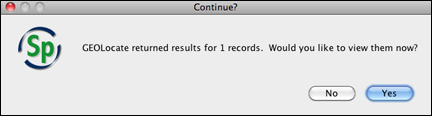
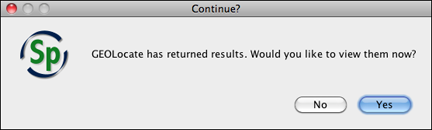
Help update for GEOLocate

Changed region(s): [[0.0, 0.0, 1.0, 1.0], [0.662, 0.7241, 0.963, 0.9052]]

diff --git a/Specify/help/SpecifyHelp/Workbench/BioGiomancer.html b/Specify/help/SpecifyHelp/Workbench/BioGiomancer.html
@@ -16,23 +16,23 @@ table.box td { border-bottom: 1px solid gray; border-right: 1px solid gray }
   </tr>
 </table>
 <h2><img src="../../images/geolocate_32.png" alt="geolocate" width="32" height="32" /> GEOLocate</h2>
-    <p>The GEOLocate project has created software and services for translating textual locality descriptions associated with biodiversity collections data into geographic coordinates. It uses a description of a Locality, and three geography fields, such as County, State and Country, to find Latitude and Longitude coordinate values. This is referred to
+    <p>The GEOLocate project has created software and services for translating textual locality descriptions associated with biodiversity collections data into geographic coordinates. It uses a description of a Locality and values in geography fields, such as County, State and Country, to find Latitude and Longitude coordinate values. This is referred to
       as georeferencing. </p>
-    <p>The Specify and GEOLocate teams have collaborated to create a GEOLocate module inside Specify. In Specify 6.4 and newer GEOLocate has been upgraded to plugin version 2.0.</p>
+<p>The Specify and GEOLocate teams have collaborated to create a GEOLocate module inside Specify. In Specify 6.4 and newer GEOLocate has been upgraded to plugin version 2.0.</p>
 <p><em><strong>Notes: </strong></em></p>
 <ul>
   <li>If GEOLocate results are accepted, they will overwrite any existing  data in the corresponding Data Set columns.</li>
   <li>The WorkBench is not responsible for any of the results returned by GEOLocate, the WorkBench is integrated with the GEOLocate web service. </li>
 </ul>
-<h4>Requirements:</h4>
+<h4>Requirements for Georeferencing US localities:</h4>
 <table class="box" border="1" cellspacing="0" cellpadding="4">
 
 <tr>
   <td align="left" valign="top"><div align="left"><u><strong>Column Heading</strong> </u></div></td>
   <td align="left" valign="top"><div align="left"><u><strong>Data Needed </strong></u></div></td>
 </tr>
-<tr><td width="124" align="left" valign="top"><strong>Locality Name</strong></td>
-<td width="197" align="left" valign="top"><div align="left">Yes</div></td>
+<tr><td width="137" align="left" valign="top"><strong>Locality Name</strong></td>
+<td width="241" align="left" valign="top"><div align="left">Yes</div></td>
 </tr>
 <tr><td align="left" valign="top"><strong>Country</strong></td>
   <td align="left" valign="top"><div align="left">Yes</div></td>
@@ -41,7 +41,10 @@ table.box td { border-bottom: 1px solid gray; border-right: 1px solid gray }
   <td align="left" valign="top"><div align="left">Yes</div></td>
 </tr>
 <tr><td align="left" valign="top"><strong>County</strong></td>
-  <td align="left" valign="top"><div align="left">Yes, for US data</div></td>
+  <td align="left" valign="top"><div align="left">
+    <p>No, but will improve results. </p>
+    <p><strong><em>Note:</em></strong> County is required when including waterbody and highway crossing in the GEOLocate search.</p>
+  </div></td>
 </tr>
 <tr><td align="left" valign="top"><strong>Latitude1</strong></td>
   <td align="left" valign="top">    <p align="left">No<br />(this is a results column) </p></td>
@@ -51,20 +54,61 @@ table.box td { border-bottom: 1px solid gray; border-right: 1px solid gray }
     (this is a results column)</div></td>
 </tr>
 </table>
-<p>The GEOLocate tool uses the data present in the Locality Name, Country, State and County colunns to query the GEOLocate service.&nbsp;The service will not work without data in the Locality Name and at least two other columns.&nbsp; The Latitude 1 and Longitude 1 columns are needed to accept the data returned by the GEOLocate service.&nbsp; If GEOLocate is able to obtain results for any of the records, the GEOLocate Results Chooser dialog will display results for each Data Set record.&nbsp;</p>
-<p>To use GEOLocate select one or more records in your Data Set and click the <img src="../../images/geolocate_20.png" alt="geolocate" width="20" height="20" /> button on the Work Space Item Bar.</p>
-<p align="center">&nbsp;</p>
-<p>A message will either display the number of records GEOLocate found results for, or state that no results were found. </p>
-<p align="center"><img src="../../images/geolocate_view.png" alt="View GEOLocate" width="432" height="116" /></p>
-<p align="center" class="imgcaption">View GEOLocate Results</p>
 <p>&nbsp;</p>
+<h4>Requirements for Georeferencing localities outside of the US:</h4>
+<table class="box" border="1" cellspacing="0" cellpadding="4">
+  <tr>
+    <td align="left" valign="top"><div align="left"><u><strong>Column Heading</strong> </u></div></td>
+    <td align="left" valign="top"><div align="left"><u><strong>Data Needed </strong></u></div></td>
+  </tr>
+  <tr>
+    <td width="137" align="left" valign="top"><strong>Locality Name</strong></td>
+    <td width="241" align="left" valign="top"><div align="left">Yes</div></td>
+  </tr>
+  <tr>
+    <td align="left" valign="top"><strong>Country</strong></td>
+    <td align="left" valign="top"><div align="left">Yes</div></td>
+  </tr>
+  <tr>
+    <td align="left" valign="top"><strong>Child Node of Country</strong></td>
+    <td align="left" valign="top">No, but will improve results.</td>
+  </tr>
+ 
+  <tr>
+    <td align="left" valign="top"><strong>Latitude1</strong></td>
+    <td align="left" valign="top"><p align="left">No<br />
+    (this is a results column) </p></td>
+  </tr>
+  <tr>
+    <td align="left" valign="top"><strong>Longitude1</strong></td>
+    <td align="left" valign="top"><div align="left">No<br />
+    (this is a results column)</div></td>
+  </tr>
+</table>
+<blockquote>
+  <p><em><strong>Note:</strong></em> A complete list of acceptable countries is available on the 
+    <a href="http://www.museum.tulane.edu/geolocate/standalone/globalExp.html">GEOLocate website</a>.</p>
+</blockquote>
+<p>&nbsp;</p>
+<p>The GEOLocate tool uses the data present in the Locality Name, Country, State and County colunns to query the GEOLocate service.&nbsp;The service will not work without data in the Locality Name and at least two other columns.&nbsp; The Latitude 1 and Longitude 1 columns are needed to accept the data returned by the GEOLocate service.&nbsp; If GEOLocate is able to obtain results for any of the records, the GEOLocate Results Chooser dialog will display results for each Data Set record.&nbsp;</p>
+<p>To use GEOLocate select one or more records in your Data Set and click the <img src="../../images/geolocate_20.png" alt="geolocate" width="20" height="20" /> button on the Work Space Item Bar. A message will alert you to the status of the GEOLocate search requirements in regard to your records. </p>
+<p align="center">&nbsp;</p>
+<p align="center"><img src="../../images/geolocate_view_warning.png" alt="view Geolocate results screen" width="360" height="387" /></p>
+<p align="center" class="imgcaption">GEOLocate Requirement Status</p>
+<blockquote>
+  <p><em><strong>Note:</strong></em> Latitude and Longitude values present in WorkBench data sets will be replaced by those found in GEOLocate if GEOLocate results are accepted.</p>
+  <p>&nbsp;</p>
+  <p>Once GEOLocate has finished processing another message will either display the number of records for which GEOLocate returned results, or state that no results were found. </p>
+  <p align="center"><img src="../../images/geolocate_view.png" alt="View GEOLocate" /></p>
+  <p align="center" class="imgcaption">View GEOLocate Results</p>
+</blockquote>
 <p>&nbsp;</p>
 <p>Results will display in the GEOLocate Results Chooser tool. </p>
 <p>&nbsp;</p>
 <p align="center"><img src="../../images/geolocate_screen.png" alt="geolocate" /></p>
 <p align="center" class="imgcaption">GEOLocate</p>
 <p><strong>Locality Information </strong>displays the  Locality Description, County, State and Country values in your current record. </p>
-<p><strong>Correction (Green) Marker Properties</strong> includes the values for the most accurate result among the GEOLocate results returned. These values are also displayed visually on a map.</p>
+<p><strong>Correction (Green) Marker Properties</strong> include the values for the most accurate result among the GEOLocate results returned. These values are also displayed visually on a map.</p>
 <p>GEOLocate results can be edited using either the Correction Marker Properties form or the map elements. Changes made on the map are automatically recalculated and updated in the corresponding fields on the form. Updated values in the Correction Marker Properties form are automatically represented in the corresponding map element.</p>
 <blockquote>
   <p><em><strong>Note:</strong></em> As you move your mouse within the map the corresponding latituted and longitude values display in the lower right corner under the map.</p>

diff --git a/Specify/help/SpecifyHelp/Plugins/Plugins.html b/Specify/help/SpecifyHelp/Plugins/Plugins.html
@@ -40,17 +40,104 @@
     <p>The GEOLocate project has created software and services for translating textual locality descriptions associated with biodiversity collections data into geographic coordinates. It uses a description of a Locality, and three geography fields, such as County, State and Country, to find Latitude and Longitude coordinate values. This is referred to
       as georeferencing. </p>
     <p>The Specify and GEOLocate teams have collaborated to create a GEOLocate module inside Specify. In Specify 6.4 and newer GEOLocate has been upgraded to plugin version 2.0.</p>
-    <p>Click  <img src="../../images/geolocate_button.png" alt="GEOLocate button" width="90" height="23" /> on the side bar and select either Collection Objects or Record Sets to send  to the GEOLocate service. Or, drag and drop a Record Set  GEOLocate on the side bar. A message will either display the number of records GEOLocate found results for, or state that no results were found. </p>
-    <p align="center"><img src="../../images/geolocate_view.png" alt="View GEOLocate" width="432" height="116" /></p>
-    <p align="center" class="imgcaption">View GEOLocate Results</p>
     <p>&nbsp;</p>
+
+    <strong>Requirements for Georeferencing US localities:
+    </h4>
+    </strong>
+    <blockquote>
+        <table class="box" border="1" cellspacing="0" cellpadding="4">
+          <tr>
+            <td align="left" valign="top"><div align="left"><u><strong>Column Heading</strong> </u></div></td>
+            <td align="left" valign="top"><div align="left"><u><strong>Data Needed </strong></u></div></td>
+          </tr>
+          <tr>
+            <td width="137" align="left" valign="top"><strong>Locality Name</strong></td>
+            <td width="241" align="left" valign="top"><div align="left">Yes</div></td>
+          </tr>
+          <tr>
+            <td align="left" valign="top"><strong>Country</strong></td>
+            <td align="left" valign="top"><div align="left">Yes</div></td>
+          </tr>
+          <tr>
+            <td align="left" valign="top"><strong>State</strong></td>
+            <td align="left" valign="top"><div align="left">Yes</div></td>
+          </tr>
+          <tr>
+            <td align="left" valign="top"><strong>County</strong></td>
+            <td align="left" valign="top"><div align="left">
+                <p>No, but will improve results. </p>
+              <p><strong><em>Note:</em></strong> County is required when including waterbody and highway crossing in the GEOLocate search.</p>
+            </div></td>
+          </tr>
+          <tr>
+            <td align="left" valign="top"><strong>Latitude1</strong></td>
+            <td align="left" valign="top"><p align="left">No<br />
+              (this is a results column) </p></td>
+          </tr>
+          <tr>
+            <td align="left" valign="top"><strong>Longitude1</strong></td>
+            <td align="left" valign="top"><div align="left">No<br />
+              (this is a results column)</div></td>
+          </tr>
+        </table>
+    </blockquote>
+ 
+          <p>&nbsp;</p>
+
+          <h4>Requirements for Georeferencing localities outside of the US:</h4>
+        <blockquote>
+        <table class="box" border="1" cellspacing="0" cellpadding="4">
+          <tr>
+            <td align="left" valign="top"><div align="left"><u><strong>Column Heading</strong> </u></div></td>
+            <td align="left" valign="top"><div align="left"><u><strong>Data Needed </strong></u></div></td>
+          </tr>
+          <tr>
+            <td width="137" align="left" valign="top"><strong>Locality Name</strong></td>
+            <td width="241" align="left" valign="top"><div align="left">Yes</div></td>
+          </tr>
+          <tr>
+            <td align="left" valign="top"><strong>Country</strong></td>
+            <td align="left" valign="top"><div align="left">Yes</div></td>
+          </tr>
+          <tr>
+            <td align="left" valign="top"><strong>Child Node of Country</strong></td>
+            <td align="left" valign="top">No, but will improve results.</td>
+          </tr>
+          <tr>
+            <td align="left" valign="top"><strong>Latitude1</strong></td>
+            <td align="left" valign="top"><p align="left">No<br />
+              (this is a results column) </p></td>
+          </tr>
+          <tr>
+            <td align="left" valign="top"><strong>Longitude1</strong></td>
+            <td align="left" valign="top"><div align="left">No<br />
+              (this is a results column)</div></td>
+          </tr>
+        </table>
+        <p><em><strong>Note:</strong></em> A complete list of acceptable countries is available on the 
+          <a href="http://www.museum.tulane.edu/geolocate/standalone/globalExp.html">GEOLocate website</a>.</p>
+        <p>&nbsp;</p>
+        </blockquote>
+    <p>Click  <img src="../../images/geolocate_button.png" alt="GEOLocate button" width="90" height="23" /> on the side bar and select either Collection Objects or Record Sets to send  to the GEOLocate service. Or, drag and drop a Record Set  onto <img src="../../images/geolocate_button.png" alt="GEOLocate button" width="90" height="23" /> on the side bar. </p>
+    <p>A message will alert you to the status of the GEOLocate search requirements in regard to your records. </p>
+    <p align="center"><img src="../../images/geolocate_view_warning.png" alt="view Geolocate results screen" width="360" height="387" /></p>
+    <p align="center" class="imgcaption">GEOLocate Requirement Status</p>
+    <blockquote>
+      <p><em><strong>Note:</strong></em> Latitude and Longitude values present in Specify records will be replaced by those found in GEOLocate if GEOLocate results are accepted.</p>
+      <p>&nbsp;</p>
+      <p>Once GEOLocate has finished processing another message will either display the number of records for which GEOLocate returned results, or state that no results were found. </p>
+      <p align="center"><img src="../../images/geolocate_view.png" alt="View GEOLocate" /></p>
+      <p align="center" class="imgcaption">View GEOLocate Results</p>
+      <p></p>
+    </blockquote>
     <p>&nbsp;</p>
     <p>Results will display in the GEOLocate Results Chooser tool. </p>
     <p>&nbsp;</p>
     <p align="center"><img src="../../images/geolocate_screen.png" alt="geolocate" /></p>
     <p align="center" class="imgcaption">GEOLocate</p>
     <p><strong>Locality Information </strong>displays the  Locality Description, County, State and Country values in your current Specify record. </p>
-    <p><strong>Correction (Green) Marker Properties</strong> includes the values for the most accurate result among the GEOLocate results returned. These values are also displayed visually on a map.</p>
+    <p><strong>Correction (Green) Marker Properties</strong> include the values for the most accurate result among the GEOLocate results returned. These values are also displayed visually on a map.</p>
     <p>GEOLocate results can be edited using either the Correction Marker Properties form or the map elements. Changes made on the map are automatically recalculated and updated in the corresponding fields on the form. Updated values in the Correction Marker Properties form are  represented in the corresponding map element.</p>
     <blockquote>
       <p><em><strong>Note:</strong></em> As you move your mouse within the map the corresponding latituted and longitude values display in the lower right corner under the map.</p>
@@ -184,7 +271,7 @@
     <p> The dialog will close when all the records have been displayed. Results that were accepted will be written in the Latitude 1 and Longitude 1 columns of the record.&nbsp; Any data already in these columns will be overwritten. </p>
     <p>&nbsp;</p>
   </blockquote>
-  <p>More information about GEOLocate can be found at <a href=
+<p>More information about GEOLocate can be found at <a href=
       "http://www.museum.tulane.edu/geolocate/">http://www.museum.tulane.edu/geolocate/</a>. </p>
   <p>&nbsp;</p>
 

diff --git a/Specify/help/SpecifyHelp/Data_Entry/Data_Entry.html b/Specify/help/SpecifyHelp/Data_Entry/Data_Entry.html
@@ -5,6 +5,11 @@
     <link type="text/css" media="screen" href="../../main.css" rel="stylesheet">
     <meta name="generator" content="Helen">
     <title>Data Entry Forms</title>
+    <style type="text/css">
+<!--
+table.box {border-top: 1px solid gray; border-left: 1px solid gray }
+-->
+    </style>
 </head>
   <body bgcolor="#ffffff">
     
@@ -492,24 +497,97 @@
       <p>&nbsp;</p>
       <p><u>GEOLocate</u></p>
       <blockquote>
-        <p>The GEOLocate project has created software and services for translating textual locality descriptions associated with biodiversity collections data into geographic coordinates. It uses a description of a Locality, and three geography fields, such as County, State and Country, to find Latitude and Longitude coordinate values. This is referred to
+        <p>The GEOLocate project has created software and services for translating textual locality descriptions associated with biodiversity collections data into geographic coordinates. It uses a description of a Locality and  geography fields, such as County, State and Country, to find Latitude and Longitude coordinate values. This is referred to
       as georeferencing. </p>
         <p>The Specify and GEOLocate teams have collaborated to create a GEOLocate module inside Specify. In Specify 6.4 and newer GEOLocate has been upgraded to plugin version 2.0.</p>
-        <p>The <img height="23" src="../../images/geolocate_button.png" width="90"> button is a
-          quick link to the GEOLocate service. GEOLocate uses a description of a Locality, and three geography fields, such as County, State and Country, to find Latitude and Longitude coordinate data. This is referred to
-      as georeferencing.  Once the locality information is complete, the GEOLocate
-          button will become enabled. </p>
-        <p>Click the <img src="../../images/geolocate_button.png" alt="GEOlocate button" width="90" height="23"> button to send locality information to the GEOLocate service. A message will either display the number of records GEOLocate found results for, or state that no results were found. </p>
-        <p align="center"><img src="../../images/geolocate_view.png" alt="View GEOLocate" width="432" height="116"></p>
-        <p align="center" class="imgcaption">View GEOLocate Results</p>
+       
+        <h4>Requirements for Georeferencing US localities:</h4>
+        <blockquote>
+        <table class="box" border="1" cellspacing="0" cellpadding="4">
+          <tr>
+            <td align="left" valign="top"><div align="left"><u><strong>Column Heading</strong> </u></div></td>
+            <td align="left" valign="top"><div align="left"><u><strong>Data Needed </strong></u></div></td>
+          </tr>
+          <tr>
+            <td width="137" align="left" valign="top"><strong>Locality Name</strong></td>
+            <td width="241" align="left" valign="top"><div align="left">Yes</div></td>
+          </tr>
+          <tr>
+            <td align="left" valign="top"><strong>Country</strong></td>
+            <td align="left" valign="top"><div align="left">Yes</div></td>
+          </tr>
+          <tr>
+            <td align="left" valign="top"><strong>State</strong></td>
+            <td align="left" valign="top"><div align="left">Yes</div></td>
+          </tr>
+          <tr>
+            <td align="left" valign="top"><strong>County</strong></td>
+            <td align="left" valign="top"><div align="left">
+                <p>No, but will improve results. </p>
+              <p><strong><em>Note:</em></strong> County is required when including waterbody and highway crossing in the GEOLocate search.</p>
+            </div></td>
+          </tr>
+          <tr>
+            <td align="left" valign="top"><strong>Latitude1</strong></td>
+            <td align="left" valign="top"><p align="left">No<br />
+              (this is a results column) </p></td>
+          </tr>
+          <tr>
+            <td align="left" valign="top"><strong>Longitude1</strong></td>
+            <td align="left" valign="top"><div align="left">No<br />
+              (this is a results column)</div></td>
+          </tr>
+        </table>
+         </blockquote>
+          <p>&nbsp;</p>
+          <h4>Requirements for Georeferencing localities outside of the US:</h4>
+        <blockquote>
+        <table class="box" border="1" cellspacing="0" cellpadding="4">
+          <tr>
+            <td align="left" valign="top"><div align="left"><u><strong>Column Heading</strong> </u></div></td>
+            <td align="left" valign="top"><div align="left"><u><strong>Data Needed </strong></u></div></td>
+          </tr>
+          <tr>
+            <td width="137" align="left" valign="top"><strong>Locality Name</strong></td>
+            <td width="241" align="left" valign="top"><div align="left">Yes</div></td>
+          </tr>
+          <tr>
+            <td align="left" valign="top"><strong>Country</strong></td>
+            <td align="left" valign="top"><div align="left">Yes</div></td>
+          </tr>
+          <tr>
+            <td align="left" valign="top"><strong>Child Node of Country</strong></td>
+            <td align="left" valign="top">No, but will improve results.</td>
+          </tr>
+          <tr>
+            <td align="left" valign="top"><strong>Latitude1</strong></td>
+            <td align="left" valign="top"><p align="left">No<br />
+              (this is a results column) </p></td>
+          </tr>
+          <tr>
+            <td align="left" valign="top"><strong>Longitude1</strong></td>
+            <td align="left" valign="top"><div align="left">No<br />
+              (this is a results column)</div></td>
+          </tr>
+        </table>
+        <p><em><strong>Note:</strong></em> A complete list of acceptable countries is available on the 
+          <a href="http://www.museum.tulane.edu/geolocate/standalone/globalExp.html">GEOLocate website</a>.&nbsp;
+          </p>
+        </p>
+        </blockquote>
         <p>&nbsp;</p>
+        <p>Once the locality information is complete, the GEOLocate
+        button will become enabled. </p>
+        <p>Click the <img src="../../images/geolocate_button.png" alt="GEOlocate button" width="90" height="23"> button to send locality information to the GEOLocate service. A message will either display the number of records GEOLocate found results for, or state that no results were found. </p>
+        <p align="center"><img src="../../images/geolocate_view.png" alt="View GEOLocate" ></p>
+        <p align="center" class="imgcaption">View GEOLocate Results</p>
         <p>&nbsp;</p>
         <p>Results will display in the GEOLocate Results Chooser tool. </p>
         <p>&nbsp;</p>
         <p align="center"><img src="../../images/geolocate_screen.png" alt="geolocate"></p>
         <p align="center" class="imgcaption">GEOLocate</p>
         <p><strong>Locality Information </strong>displays the  Locality Description, County, State and Country values in your current record. </p>
-        <p><strong>Correction (Green) Marker Properties</strong> includes the values for the most accurate result among the GEOLocate results returned. These values are also displayed visually on a map.</p>
+        <p><strong>Correction (Green) Marker Properties</strong> include the values for the most accurate result among the GEOLocate results returned. These values are also displayed visually on a map.</p>
         <p>GEOLocate results can be edited using either the Correction Marker Properties form or the map elements. Changes made on the map are automatically recalculated and updated in the corresponding fields on the form. Updated values in the Correction Marker Properties form are automatically represented in the corresponding map element.</p>
         <blockquote>
           <p><em><strong>Note:</strong></em> As you move your mouse within the map the corresponding latituted and longitude values display in the lower right corner under the map.</p>

diff --git a/Specify/help/SpecifyHelp/Workbench/SpecialTools.html b/Specify/help/SpecifyHelp/Workbench/SpecialTools.html
@@ -21,13 +21,7 @@
       <td><div align="left"><u><strong>Description</strong></u></div></td>
       <td><div align="left"><u><strong>Requirements</strong></u></div></td>
     </tr>
-    <tr>
-      <td width="8%" align="left" valign="top"><div align="center"><img src="../images/map.png" alt="map" width="32" height="32"/></div></td>
-      <td width="16%" align="left" valign="top"><div align="left">Record Mapping Tool</div></td>
-      <td width="60%" align="left" valign="top"><div align="left">Displays  the Latitude and Longitude points as a green dot on a satellite map. The map includes rivers and political boundary overlays. </div></td>
-      <td width="16%" align="left" valign="top"><p>Latitude 1</p>
-        <p>Longitude 1</p>      </td>
-    </tr>
+    
     <tr>
       <td align="left" valign="top"><div align="center"><img src="../images/GoogleEarth32x32.png" alt="Google earth" width="32" height="32"/></div></td>
       <td align="left" valign="top"><div align="left">Google Earth </div></td>
@@ -36,7 +30,7 @@
         <p>Longitude 1</p>      </td>
     </tr>
     <tr>
-      <td align="left" valign="top"><div align="center"><img src="../images/biogeomancer.png" alt="BioGiomancer" width="32" height="32"/></div></td>
+      <td align="left" valign="top"><div align="center"><img src="../../images/geolocate_32.png" alt="geolocate" width="32" height="32" /></div></td>
       <td align="left" valign="top"><div align="left">GEOLocate</div></td>
       <td align="left" valign="top"><p align="left">The WorkBench uses this web service to calculate the latitude and longitude positions from a textual locality description and three geography fields. The WorkBench processes all the selected rows and caches the information, and then the results can be stepped through one row at a time and the appropriate Latitude / Longitude can be selected, or skipped. </p>
       <p align="left"><em><strong>Note:</strong></em> The WorkBench is not responsible for any of the results returned by BioGeomancer.  The WorkBench is integrated with the BioGeomancer service.</p></td>

diff --git a/Specify/help/SpecifyHelp/Plugins/lifemapper.html b/Specify/help/SpecifyHelp/Plugins/lifemapper.html
@@ -17,7 +17,7 @@
 <p align="center"><img src="../../images/lifemapper_screen.png" alt="lifemapper" width="504" height="373" /></p>
 <p align="center" class="imgcaption">Lifemapper Tool</p>
 <p align="center">&nbsp;</p>
-<p align="left"><strong>Species Name</strong> searches the GBIF/Lifemapper cache and returns Species Names in Species Nambe located below the Species Name text box. </p>
+<p align="left"><strong>Species Name</strong> searches the GBIF/Lifemapper cache and returns Species Names in Species Name box located below the Species Name text box. </p>
 <blockquote>
   <p align="left">Enter at least the first three letters of a Species name in the Species Name text box and press the <em>Return</em> key or click the <em>Search</em> button. Matching Species Names in GBIF/Lifemapper will be displayed in the Species Name box. The number in parentheses next to the species name indicates the number of occurrence points, or collection objects, in the Lifemapper/GBIF cache. </p>
   <p align="left">Choose a name from the box. Lifemapper will add red markers on the maps representing the GBIG/Lifemapper occurrence points, or Locality Descriptions, for the species. The World Overview  map offers an overview of all the occurrence points in the world. The Interactive map zooms into a location that includes a high concentration of occurrence points. It is possible to move the zoom location of the interactive map by click and dragging within the map.</p>
